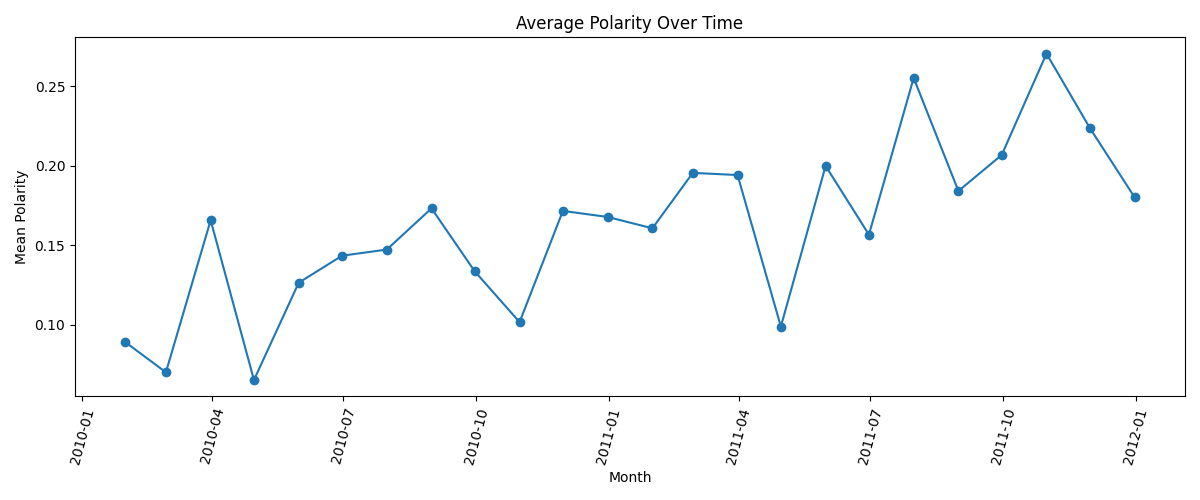
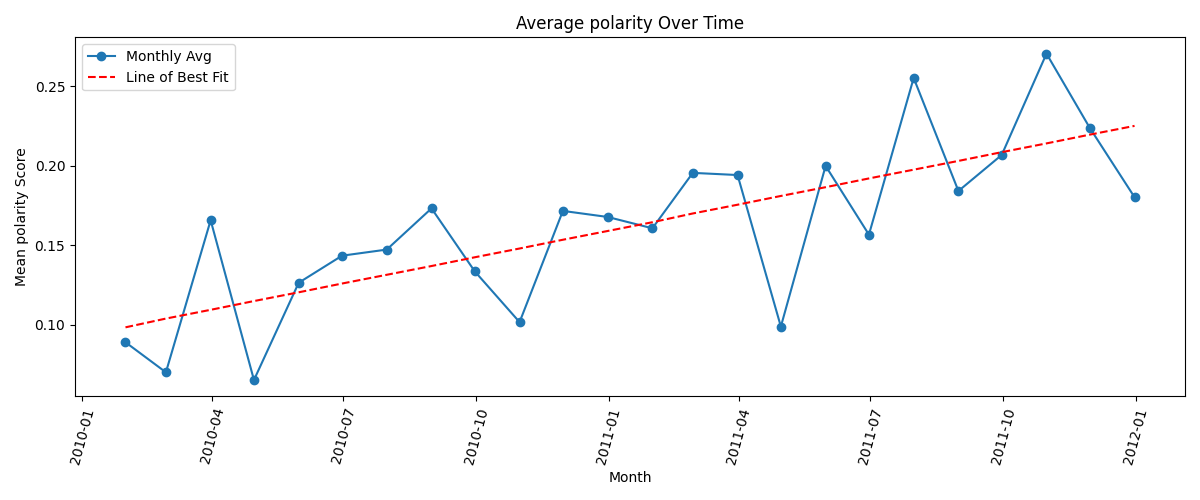
added line of best fit

diff --git a/src/Plot_data.py b/src/Plot_data.py
@@ -400,9 +400,10 @@ class PlotData:
         plt.savefig("visualizations/polarity_distribution.png")
         plt.close()
 
-    def plot_avg_polarity_over_time(self, date_column="dt"):
+    def plot_avg_polarity_over_time(self, date_column="date"):
         """Monthly mean polarity trend."""
          
+        plt.figure(figsize=(12, 5))
         d = self.df.dropna(subset=[date_column, "polarity"]).copy()
         if d.empty:
             return
@@ -412,13 +413,22 @@ class PlotData:
                .sort_index())
         if s.empty:
             return
-        plt.figure(figsize=(12,5))
-        plt.plot(s.index, s.values, marker="o")
-        plt.title("Average Polarity Over Time")
+        
+        plt.plot(s.index, s.values, marker="o", label="Monthly Avg")
+
+        x = np.arange(len(s))
+        y = s.values
+        coeffs = np.polyfit(x, y, 1)
+        trend = np.poly1d(coeffs)
+        plt.plot(s.index, trend(x), color="red", linestyle="--", label="Line of Best Fit")
+
+        plt.title("Average polarity Over Time")
         plt.xlabel("Month")
-        plt.ylabel("Mean Polarity")
+        plt.ylabel("Mean polarity Score")
         plt.xticks(rotation=75)
+        plt.legend()
         plt.tight_layout()
+
         plt.savefig("visualizations/avg_polarity_over_time.png")
         plt.close()
 
